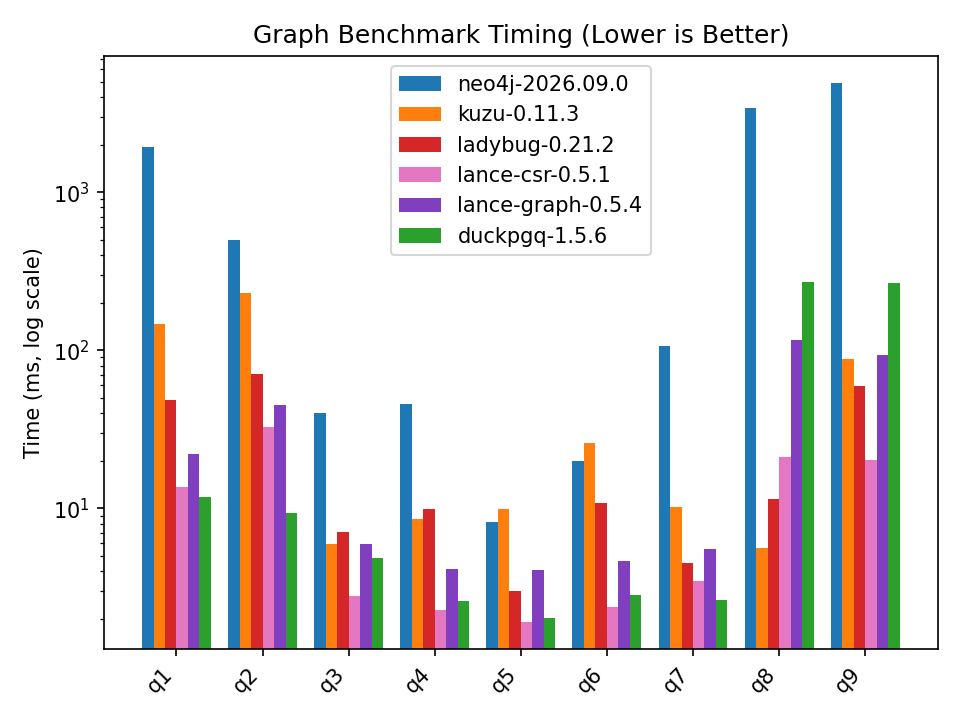
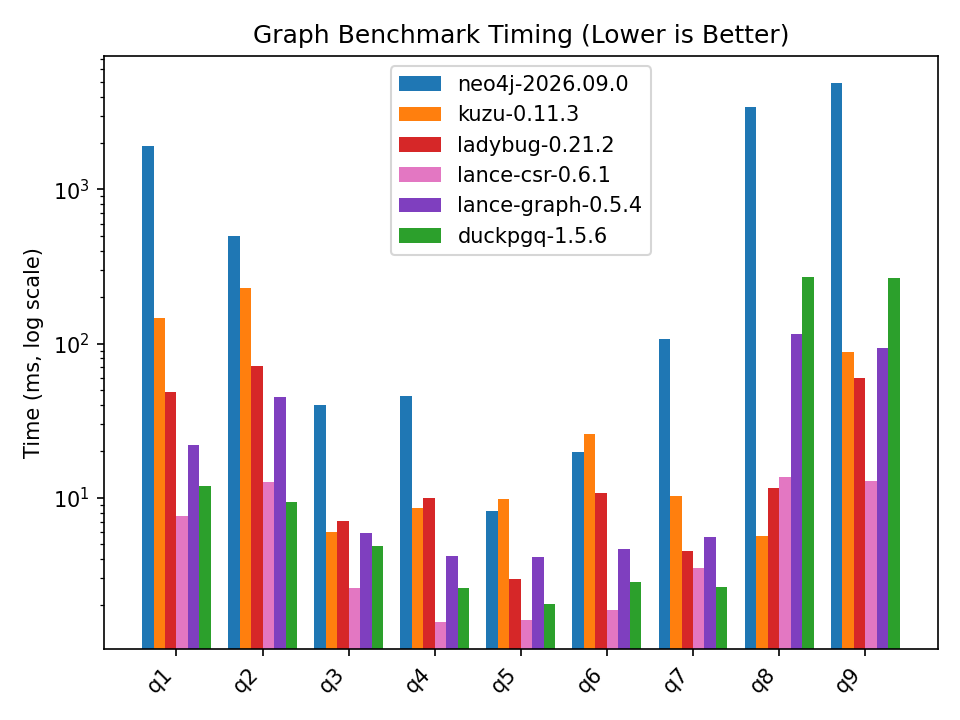
chore(bench): update lance-csr to 0.6.1 (#24)
* chore(bench): update lance-csr to 0.6.1

lance-csr 0.6.1 is slightly faster than 0.5.1 with default settings,
most visibly on q9 (20.2 to 17.4 ms). The use_csr comparison is rerun:
the experimental CSR index is now faster on q1, q2, q8 and q9, but the
headline numbers stay on the engine defaults.

* chore(bench): run lance-csr with use_csr=True

The experimental CSR index is faster than the defaults on q1, q2, q8
and q9 in 0.6.1 and returns the same query results, so the headline
lance-csr numbers now use it. The default-settings run is archived.

diff --git a/lance_csr/query.py b/lance_csr/query.py
@@ -1,8 +1,9 @@
 """Benchmark query helpers for lance-csr.
 
 Builds one `CypherEngine` over in-memory Arrow tables and reuses it across
-benchmark queries. The experimental CSR index (`use_csr=True`) is left off: it
-was slower on q1/q2/q8/q9 here (see results/archive/lance-csr-0.5.1-use-csr.txt).
+benchmark queries. The experimental CSR index (`use_csr=True`, off by default)
+is turned on: in 0.6.1 it is faster on q1/q2/q8/q9 (see
+results/archive/lance-csr-0.6.1-default.txt for the default-settings run).
 """
 
 import time
@@ -57,7 +58,7 @@ def to_polars(result: pa.Table) -> pl.DataFrame:
 
 
 def build_engine(root: Path = GRAPH_ROOT) -> CypherEngine:
-    return CypherEngine(build_config(), load_datasets(root))
+    return CypherEngine(build_config(), load_datasets(root), use_csr=True)
 
 
 def execute_query(

diff --git a/README.md b/README.md
@@ -108,19 +108,19 @@ All numbers below are the mean latency over multiple `pytest-benchmark` rounds, 
 | OS | macOS 26.6.2 |
 | Python | 3.13.14 (via `uv`) |
 | Neo4j | 2026.09.0 community edition, in Docker 29.8.1 (2 GB page cache, 2–4 GB heap) |
-| Embedded systems | Kuzu 0.11.3, Ladybug 0.21.2, lance-graph 0.5.4, lance-csr 0.5.1, DuckDB 1.5.6 + DuckPGQ (`61f5d082`) |
+| Embedded systems | Kuzu 0.11.3, Ladybug 0.21.2, lance-graph 0.5.4, lance-csr 0.6.1, DuckDB 1.5.6 + DuckPGQ (`61f5d082`) |
 
-| Query | neo4j-2026.09.0 (ms) | kuzu-0.11.3 (ms) | ladybug-0.21.2 (ms) | lance-csr-0.5.1 (ms) | lance-graph-0.5.4 (ms) | duckpgq-1.5.6 (ms) |
+| Query | neo4j-2026.09.0 (ms) | kuzu-0.11.3 (ms) | ladybug-0.21.2 (ms) | lance-csr-0.6.1 (ms) | lance-graph-0.5.4 (ms) | duckpgq-1.5.6 (ms) |
 | --- | --- | --- | --- | --- | --- | --- |
-| q1 | 1919.1ms | 145.7ms (13.2x) | 48.8ms (39.3x) | 13.6ms (141.3x) | 22.0ms (87.2x) | 11.9ms (161.6x) |
-| q2 | 496.1ms | 228.8ms (2.2x) | 71.1ms (7.0x) | 32.5ms (15.2x) | 44.9ms (11.0x) | 9.4ms (52.8x) |
-| q3 | 40.2ms | 6.0ms (6.7x) | 7.0ms (5.7x) | 2.8ms (14.5x) | 5.9ms (6.8x) | 4.8ms (8.3x) |
-| q4 | 45.8ms | 8.6ms (5.3x) | 10.0ms (4.6x) | 2.3ms (20.2x) | 4.2ms (11.0x) | 2.6ms (17.6x) |
-| q5 | 8.2ms | 9.8ms (0.8x) | 3.0ms (2.7x) | 1.9ms (4.3x) | 4.1ms (2.0x) | 2.0ms (4.0x) |
-| q6 | 19.8ms | 25.9ms (0.8x) | 10.8ms (1.8x) | 2.4ms (8.3x) | 4.6ms (4.3x) | 2.8ms (7.0x) |
-| q7 | 106.5ms | 10.2ms (10.4x) | 4.5ms (23.7x) | 3.4ms (30.9x) | 5.5ms (19.3x) | 2.6ms (40.5x) |
-| q8 | 3407.5ms | 5.6ms (607.4x) | 11.5ms (296.3x) | 21.2ms (160.7x) | 115.3ms (29.6x) | 270.6ms (12.6x) |
-| q9 | 4903.0ms | 87.8ms (55.8x) | 59.5ms (82.5x) | 20.2ms (243.0x) | 93.6ms (52.4x) | 264.6ms (18.5x) |
+| q1 | 1919.1ms | 145.7ms (13.2x) | 48.8ms (39.3x) | 7.6ms (251.5x) | 22.0ms (87.2x) | 11.9ms (161.6x) |
+| q2 | 496.1ms | 228.8ms (2.2x) | 71.1ms (7.0x) | 12.6ms (39.4x) | 44.9ms (11.0x) | 9.4ms (52.8x) |
+| q3 | 40.2ms | 6.0ms (6.7x) | 7.0ms (5.7x) | 2.6ms (15.6x) | 5.9ms (6.8x) | 4.8ms (8.3x) |
+| q4 | 45.8ms | 8.6ms (5.3x) | 10.0ms (4.6x) | 1.6ms (29.5x) | 4.2ms (11.0x) | 2.6ms (17.6x) |
+| q5 | 8.2ms | 9.8ms (0.8x) | 3.0ms (2.7x) | 1.6ms (5.1x) | 4.1ms (2.0x) | 2.0ms (4.0x) |
+| q6 | 19.8ms | 25.9ms (0.8x) | 10.8ms (1.8x) | 1.9ms (10.7x) | 4.6ms (4.3x) | 2.8ms (7.0x) |
+| q7 | 106.5ms | 10.2ms (10.4x) | 4.5ms (23.7x) | 3.5ms (30.5x) | 5.5ms (19.3x) | 2.6ms (40.5x) |
+| q8 | 3407.5ms | 5.6ms (607.4x) | 11.5ms (296.3x) | 13.6ms (251.4x) | 115.3ms (29.6x) | 270.6ms (12.6x) |
+| q9 | 4903.0ms | 87.8ms (55.8x) | 59.5ms (82.5x) | 12.8ms (381.8x) | 93.6ms (52.4x) | 264.6ms (18.5x) |
 
 ![](./results/benchmark_plot.png)
 
@@ -128,6 +128,7 @@ All numbers below are the mean latency over multiple `pytest-benchmark` rounds, 
 
 > [!NOTE]
 > - lance-csr and lance-graph: in-memory Arrow tables, loaded before the timed queries
+> - lance-csr runs with its experimental CSR index (`use_csr=True`), also built before the timed queries
 > - Kuzu/Ladybug: CSR adjacency lists on disk, as part of the storage format
 
 ## Explanation of results

diff --git a/lance_csr/README.md b/lance_csr/README.md
@@ -15,7 +15,7 @@ across queries. The Cypher queries are identical to the ones in `lance_graph/`.
 uv add lance-csr
 ```
 
-lance-csr 0.5.1 needs `pylance` 13.x to write Lance datasets.
+lance-csr 0.6.1 needs `pylance` 13.x to write Lance datasets.
 
 ## Build graph
 
@@ -41,8 +41,10 @@ in query 6 can come back in either order.
 uv run pytest benchmark_query.py --benchmark-min-rounds=5 --benchmark-warmup-iterations=5 --benchmark-disable-gc --benchmark-sort=fullname
 ```
 
-The engine runs with its default settings. The experimental in-memory CSR adjacency
-(`CypherEngine(..., use_csr=True)`) was slower on this benchmark: about 52 ms vs 14 ms
-on q1, 172 ms vs 33 ms on q2, 30 ms vs 21 ms on q8 and 24 ms vs 20 ms on q9. That run
-is kept in `results/archive/lance-csr-0.5.1-use-csr.txt`. Reading the Lance datasets lazily
-instead of loading them into memory was also slower, by roughly 5–15%.
+The engine runs with the experimental in-memory CSR adjacency
+(`CypherEngine(..., use_csr=True)`), which is off by default. It was slower than the
+defaults up to 0.5.1, but is faster in 0.6.1: about 7.6 ms vs 12.5 ms on q1, 12.6 ms
+vs 30.0 ms on q2, 13.6 ms vs 20.1 ms on q8 and 12.8 ms vs 17.4 ms on q9, and within
+noise on the rest. The index is built once with the engine, before the timed queries.
+The default-settings run is kept in `results/archive/lance-csr-0.6.1-default.txt`. Reading the Lance datasets lazily
+instead of loading them into memory was slower on 0.5.x, by roughly 5–15%.

diff --git a/results/README.md b/results/README.md
@@ -50,10 +50,10 @@ DuckPGQ shows the same pattern as `lance-graph` on `q8`/`q9`: it is very fast on
 
 `lance-csr` is a fork of `lance-graph` that runs the same Cypher queries:
 
-- `q1`–`q7`: roughly 1.5–2x faster than `lance-graph`.
-- `q8`/`q9`: since 0.5.1, it sums `inDegree(b) * outDegree(b)` per middle node `b` instead of building every path. About 5x faster than `lance-graph`, fastest on `q9`, behind Kuzu/Ladybug on `q8`.
+- `q1`–`q7`: roughly 1.5–3.5x faster than `lance-graph`.
+- `q8`/`q9`: since 0.5.1, it sums `inDegree(b) * outDegree(b)` per middle node `b` instead of building every path. About 7–8x faster than `lance-graph`, fastest on `q9`, behind Kuzu/Ladybug on `q8`.
 - Storage: both Lance engines query in-memory Arrow tables, loaded before the timed queries. Kuzu/Ladybug read their CSR adjacency lists from disk.
-- `use_csr=True`: covers single-hop patterns only, and made `q1`, `q2`, `q8` and `q9` slower, so the numbers above use the defaults.
+- `use_csr=True`: the numbers above use the experimental in-memory CSR index, which is off by default. In 0.6.1 it is faster than the defaults on `q1`, `q2`, `q8` and `q9` (about 1.4–2.4x) and within noise elsewhere; the default-settings run is in `archive/lance-csr-0.6.1-default.txt`.
 
 ## Inspecting query plans
 
